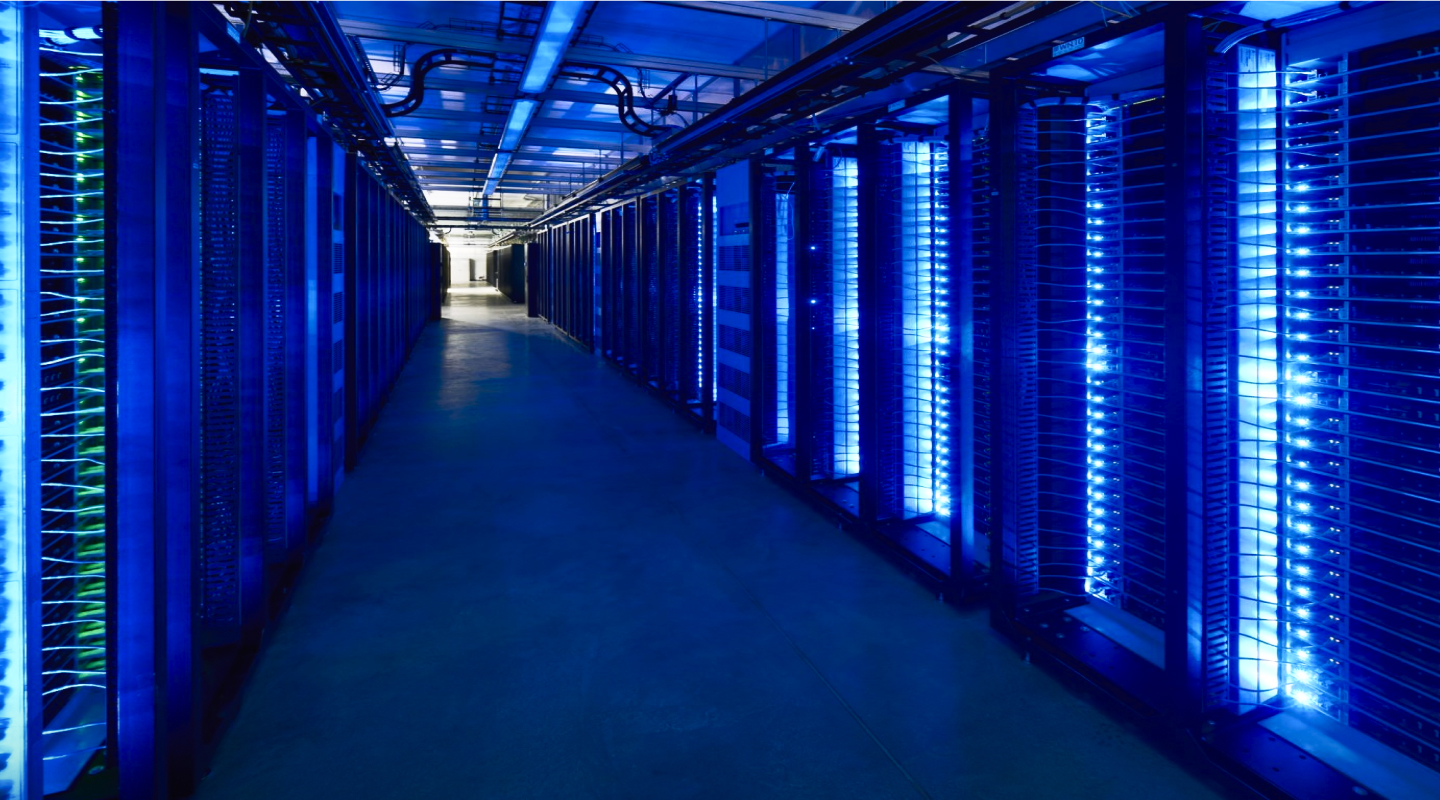
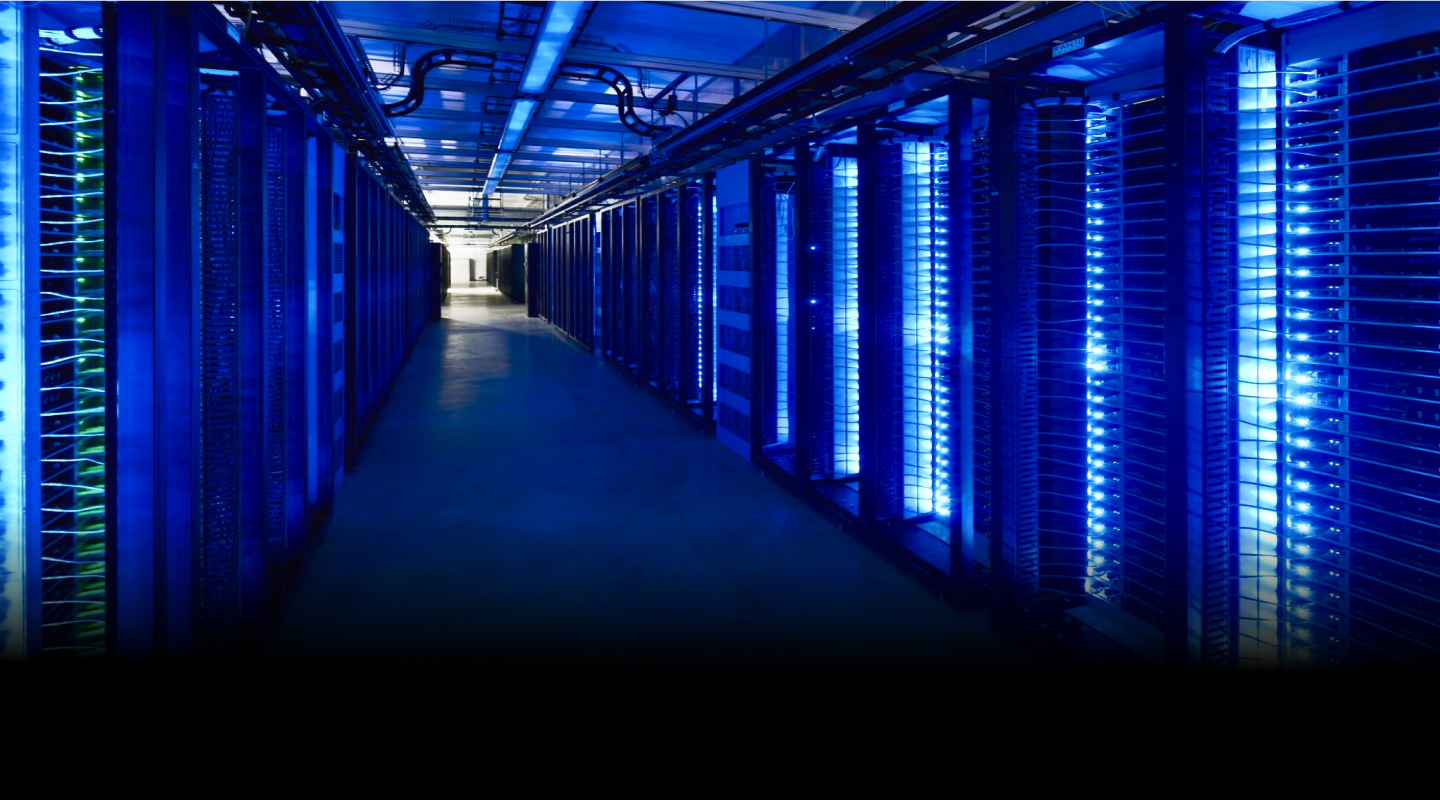
Начата верстка второй секции

diff --git a/dist/index.html b/dist/index.html
@@ -59,6 +59,41 @@
         </div>
     </div>
 </section>
+			<section class="about">
+    <!-- <div class="wave">
+        <img src="img/wave.png" class="wave-bg" alt="Волна">
+    </div> -->
+    <h2 class="section__title section__title-about"><span class="section__title-left">Несколько</span>
+        <span class="section__title-right">слов <span class="section__title-white">о нас</span></span>
+    </h2>
+    <div class="about__body">
+        <div class="about__body-item about__item">
+            <div class="about__item-content item-content">
+                <div class="item-content__text">Все начинают с чего-то, и наш проект начинается с малого. Идея создания
+                    зародилась спустя время пользования разными хостингами. Мы учли все их ошибки и создали свой
+                    вариант, основанный на новых взглядах на услуги хостинга.
+                </div>
+                <div class="item-content__img">
+                    <img src="img/figure_left.png" alt="Фигура стрелки" class="item-content-image">
+                </div>
+            </div>
+            <div class="about__item-content item-content">
+                <div class="item-content__img">
+                    <img src="img/figure_right.png" alt="Фигура стрелки" class="item-content__image">
+                </div>
+                <div class="item-content__text">Главной нашей целью является предоставление своим клиентам надежного и
+                    мощного хранилища информации, который станет для них незаменимым помощником при запуске сайтов .
+                    Присоединяясь к списку наших клиентов, Вы поддерживаете наш проект и даете возможность ему
+                    развиваться и становиться лучше.
+                </div>
+            </div>
+        </div>
+        <div class="about__body-item about__item">
+            <img src="img/computer.png" alt="Компьютер" class="about__item-image">
+        </div>
+    </div>
+
+</section>
 
 
 		</main>

diff --git a/src/html/about.html b/src/html/about.html
@@ -1,0 +1,35 @@
+<section class="about">
+    <!-- <div class="wave">
+        <img src="@img/wave.png" class="wave-bg" alt="Волна">
+    </div> -->
+    <h2 class="section__title section__title-about"><span class="section__title-left">Несколько</span>
+        <span class="section__title-right">слов <span class="section__title-white">о нас</span></span>
+    </h2>
+    <div class="about__body">
+        <div class="about__body-item about__item">
+            <div class="about__item-content item-content">
+                <div class="item-content__text">Все начинают с чего-то, и наш проект начинается с малого. Идея создания
+                    зародилась спустя время пользования разными хостингами. Мы учли все их ошибки и создали свой
+                    вариант, основанный на новых взглядах на услуги хостинга.
+                </div>
+                <div class="item-content__img">
+                    <img src="@img/figure_left.png" alt="Фигура стрелки" class="item-content-image">
+                </div>
+            </div>
+            <div class="about__item-content item-content">
+                <div class="item-content__img">
+                    <img src="@img/figure_right.png" alt="Фигура стрелки" class="item-content__image">
+                </div>
+                <div class="item-content__text">Главной нашей целью является предоставление своим клиентам надежного и
+                    мощного хранилища информации, который станет для них незаменимым помощником при запуске сайтов .
+                    Присоединяясь к списку наших клиентов, Вы поддерживаете наш проект и даете возможность ему
+                    развиваться и становиться лучше.
+                </div>
+            </div>
+        </div>
+        <div class="about__body-item about__item">
+            <img src="@img/computer.png" alt="Компьютер" class="about__item-image">
+        </div>
+    </div>
+
+</section>

diff --git a/dist/css/style.css b/dist/css/style.css
@@ -140,6 +140,7 @@ body {
   font-size: 1rem;
   font-weight: 400;
   line-height: 1.5;
+  background-color: #000b23;
 }
 
 body._lock {
@@ -160,6 +161,16 @@ body._lock {
 
 main {
   padding-top: 95px;
+  overflow: hidden;
+}
+
+.section__title {
+  font-style: italic;
+  font-weight: 900;
+  font-size: 2.25rem;
+  letter-spacing: 0.12em;
+  text-transform: uppercase;
+  color: #01f0ff;
 }
 
 .btn {
@@ -361,7 +372,7 @@ main {
   }
 }
 .offer {
-  background: url("../img/Main image.jpg") 0 -160px/cover no-repeat;
+  background: url("../img/offer_bg.jpg") 0 -160px/cover no-repeat;
   height: 900px;
   padding: 40px 0px 0px 0px;
   position: relative;
@@ -523,4 +534,40 @@ main {
   100% {
     transform: rotate(0deg);
   }
+}
+.about {
+  background-color: #000b23;
+}
+.about__body {
+  display: flex;
+  flex-wrap: wrap;
+}
+.about__body-item {
+  flex: 0 1 50%;
+}
+.about__item-content {
+  display: flex;
+}
+.section__title-about {
+  width: 540px;
+  margin: 0 auto;
+}
+.section__title-left {
+  width: 100%;
+  text-align: left;
+  display: block;
+}
+.section__title-right {
+  width: 100%;
+  text-align: right;
+  display: block;
+}
+.section__title-white {
+  color: #f2f2f2;
+}
+
+.item-content__text {
+  font-weight: 500;
+  font-size: 1rem;
+  color: #f2f2f2;
 }

diff --git a/dist/css/style.min.css b/dist/css/style.min.css
@@ -140,6 +140,7 @@ body {
   font-size: 1rem;
   font-weight: 400;
   line-height: 1.5;
+  background-color: #000b23;
 }
 
 body._lock {
@@ -160,6 +161,16 @@ body._lock {
 
 main {
   padding-top: 95px;
+  overflow: hidden;
+}
+
+.section__title {
+  font-style: italic;
+  font-weight: 900;
+  font-size: 2.25rem;
+  letter-spacing: 0.12em;
+  text-transform: uppercase;
+  color: #01f0ff;
 }
 
 .btn {
@@ -361,7 +372,7 @@ main {
   }
 }
 .offer {
-  background: url("../img/Main image.jpg") 0 -160px/cover no-repeat;
+  background: url("../img/offer_bg.jpg") 0 -160px/cover no-repeat;
   height: 900px;
   padding: 40px 0px 0px 0px;
   position: relative;
@@ -523,4 +534,40 @@ main {
   100% {
     transform: rotate(0deg);
   }
+}
+.about {
+  background-color: #000b23;
+}
+.about__body {
+  display: flex;
+  flex-wrap: wrap;
+}
+.about__body-item {
+  flex: 0 1 50%;
+}
+.about__item-content {
+  display: flex;
+}
+.section__title-about {
+  width: 540px;
+  margin: 0 auto;
+}
+.section__title-left {
+  width: 100%;
+  text-align: left;
+  display: block;
+}
+.section__title-right {
+  width: 100%;
+  text-align: right;
+  display: block;
+}
+.section__title-white {
+  color: #f2f2f2;
+}
+
+.item-content__text {
+  font-weight: 500;
+  font-size: 1rem;
+  color: #f2f2f2;
 }

diff --git a/src/scss/about.scss b/src/scss/about.scss
@@ -1,0 +1,58 @@
+.about {
+    background-color: #000b23;
+
+    &__body {
+        display: flex;
+        flex-wrap: wrap;
+    }
+
+    &__body-item {
+        flex: 0 1 50%;
+    }
+
+    &__item {
+    }
+
+    &__item-content {
+        display: flex;
+    }
+
+    &__item-image {
+    }
+}
+.section {
+    &__title {
+        &-about {
+            width: 540px;
+            margin: 0 auto;
+        }
+    }
+
+    &__title-left {
+        width: 100%;
+        text-align: left;
+        display: block;
+    }
+
+    &__title-right {
+        width: 100%;
+        text-align: right;
+        display: block;
+    }
+
+    &__title-white {
+        color: #f2f2f2;
+    }
+}
+.item-content {
+    &__text {
+        font-weight: 500;
+        font-size: 1rem;
+        color: #f2f2f2;
+    }
+
+    &__img {
+    }
+}
+.item-content-image {
+}

diff --git a/src/scss/style.scss b/src/scss/style.scss
@@ -6,6 +6,7 @@ body {
 	font-size: 1rem;
 	font-weight: 400;
 	line-height: 1.5;
+	background-color: #000b23;
 }
 body._lock {
 	overflow: hidden;
@@ -22,8 +23,19 @@ body._lock {
 }
 main {
 	padding-top: 95px;
+	overflow: hidden;
+}
+
+.section__title {
+	font-style: italic;
+	font-weight: 900;
+	font-size: 2.25rem;
+	letter-spacing: 0.12em;
+	text-transform: uppercase;
+	color: #01f0ff;
 }
 
 @import "button";
 @import "header";
 @import "offer";
+@import "about";

diff --git a/src/scss/offer.scss b/src/scss/offer.scss
@@ -1,5 +1,5 @@
 .offer {
-    background: url("../img/Main image.jpg") 0 -160px / cover no-repeat;
+    background: url("../img/offer_bg.jpg") 0 -160px / cover no-repeat;
     height: 900px;
     padding: 40px 0px 0px 0px;
     position: relative;

diff --git a/src/index.html b/src/index.html
@@ -9,6 +9,7 @@
 		@@include('html/header.html',{})
 		<main>
 			@@include('html/offer.html',{})
+			@@include('html/about.html',{})
 
 
 		</main>
